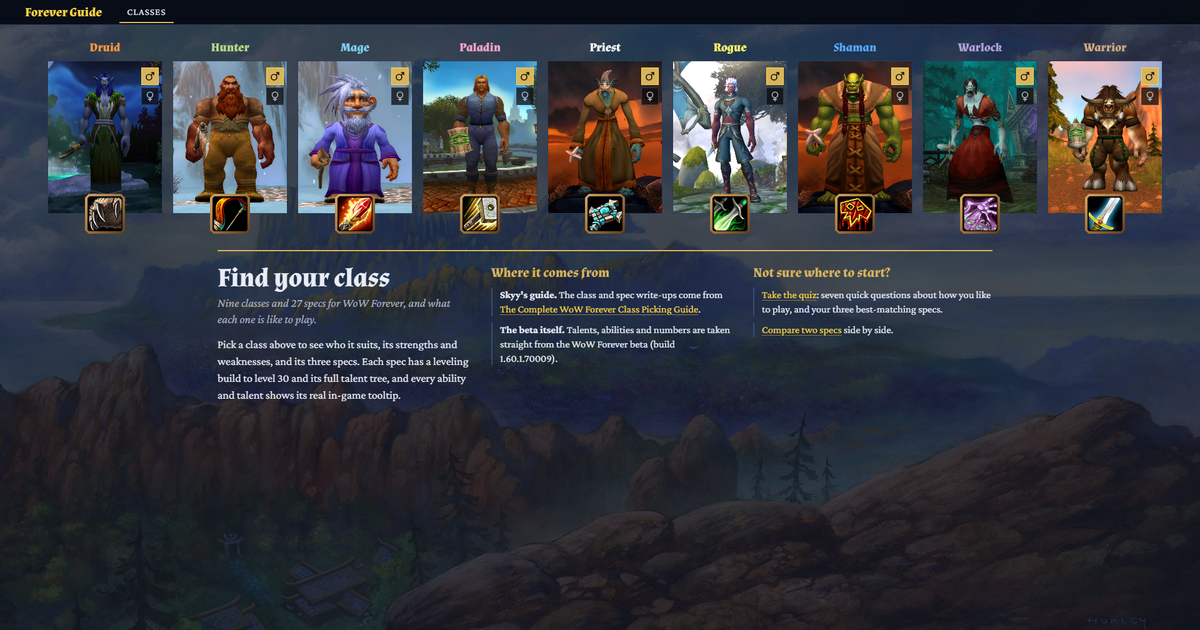
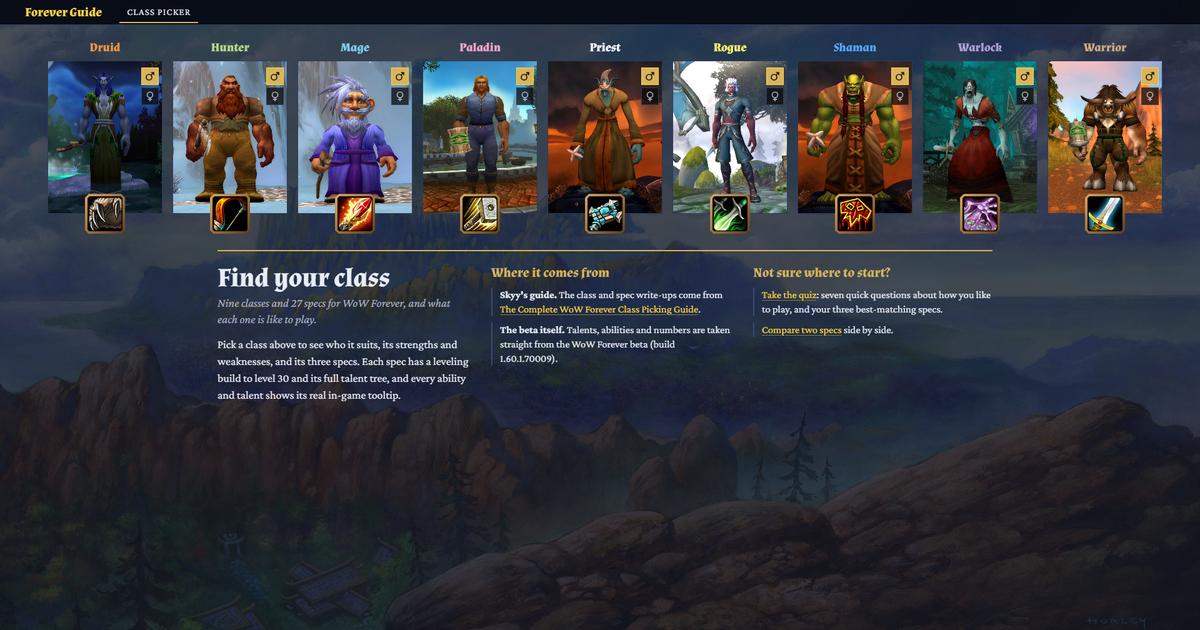
Header label: Class Picker; section page titles; refreshed link-preview image

diff --git a/index.html b/index.html
@@ -12,7 +12,7 @@
 <meta property="og:title" content="Which class should you play in WoW Forever?">
 <meta property="og:description" content="All nine classes and 27 specs from Skyy's guide, with talent trees, leveling builds to 30 and a seven-question quiz.">
 <meta property="og:url" content="https://forever-class-picker.vercel.app/classes">
-<meta property="og:image" content="https://forever-class-picker.vercel.app/og.png?v=a3f15b24">
+<meta property="og:image" content="https://forever-class-picker.vercel.app/og.png?v=657e1c62">
 <meta property="og:image:width" content="1200">
 <meta property="og:image:height" content="630">
 <meta property="og:image:alt" content="Forever Guide">

diff --git a/shell.js b/shell.js
@@ -40,6 +40,7 @@ function route() {
   if (!parts.length) { history.replaceState(null, '', '/classes' + location.search); return route(); }
   const mod = MODULES.find(m => m.id === parts[0]) || MODULES[0];
   renderHeader(mod.id);
+  document.title = `${mod.label} | ${SITE}`;
   document.body.dataset.module = mod.id;
   mod.render(mod.id === parts[0] ? parts.slice(1) : [], new URLSearchParams(location.search));
 }

diff --git a/modules/classes/classes.js b/modules/classes/classes.js
@@ -477,7 +477,7 @@ function comparePage(a, b) {
 /* ---------- routes ---------- */
 registerModule({
   id: 'classes',
-  label: 'Classes',
+  label: 'Class Picker',
   render(parts, query) {
     const [first, spec, mode] = parts;
     if (first === 'quiz' || first === 'results' || first === 'compare') {
